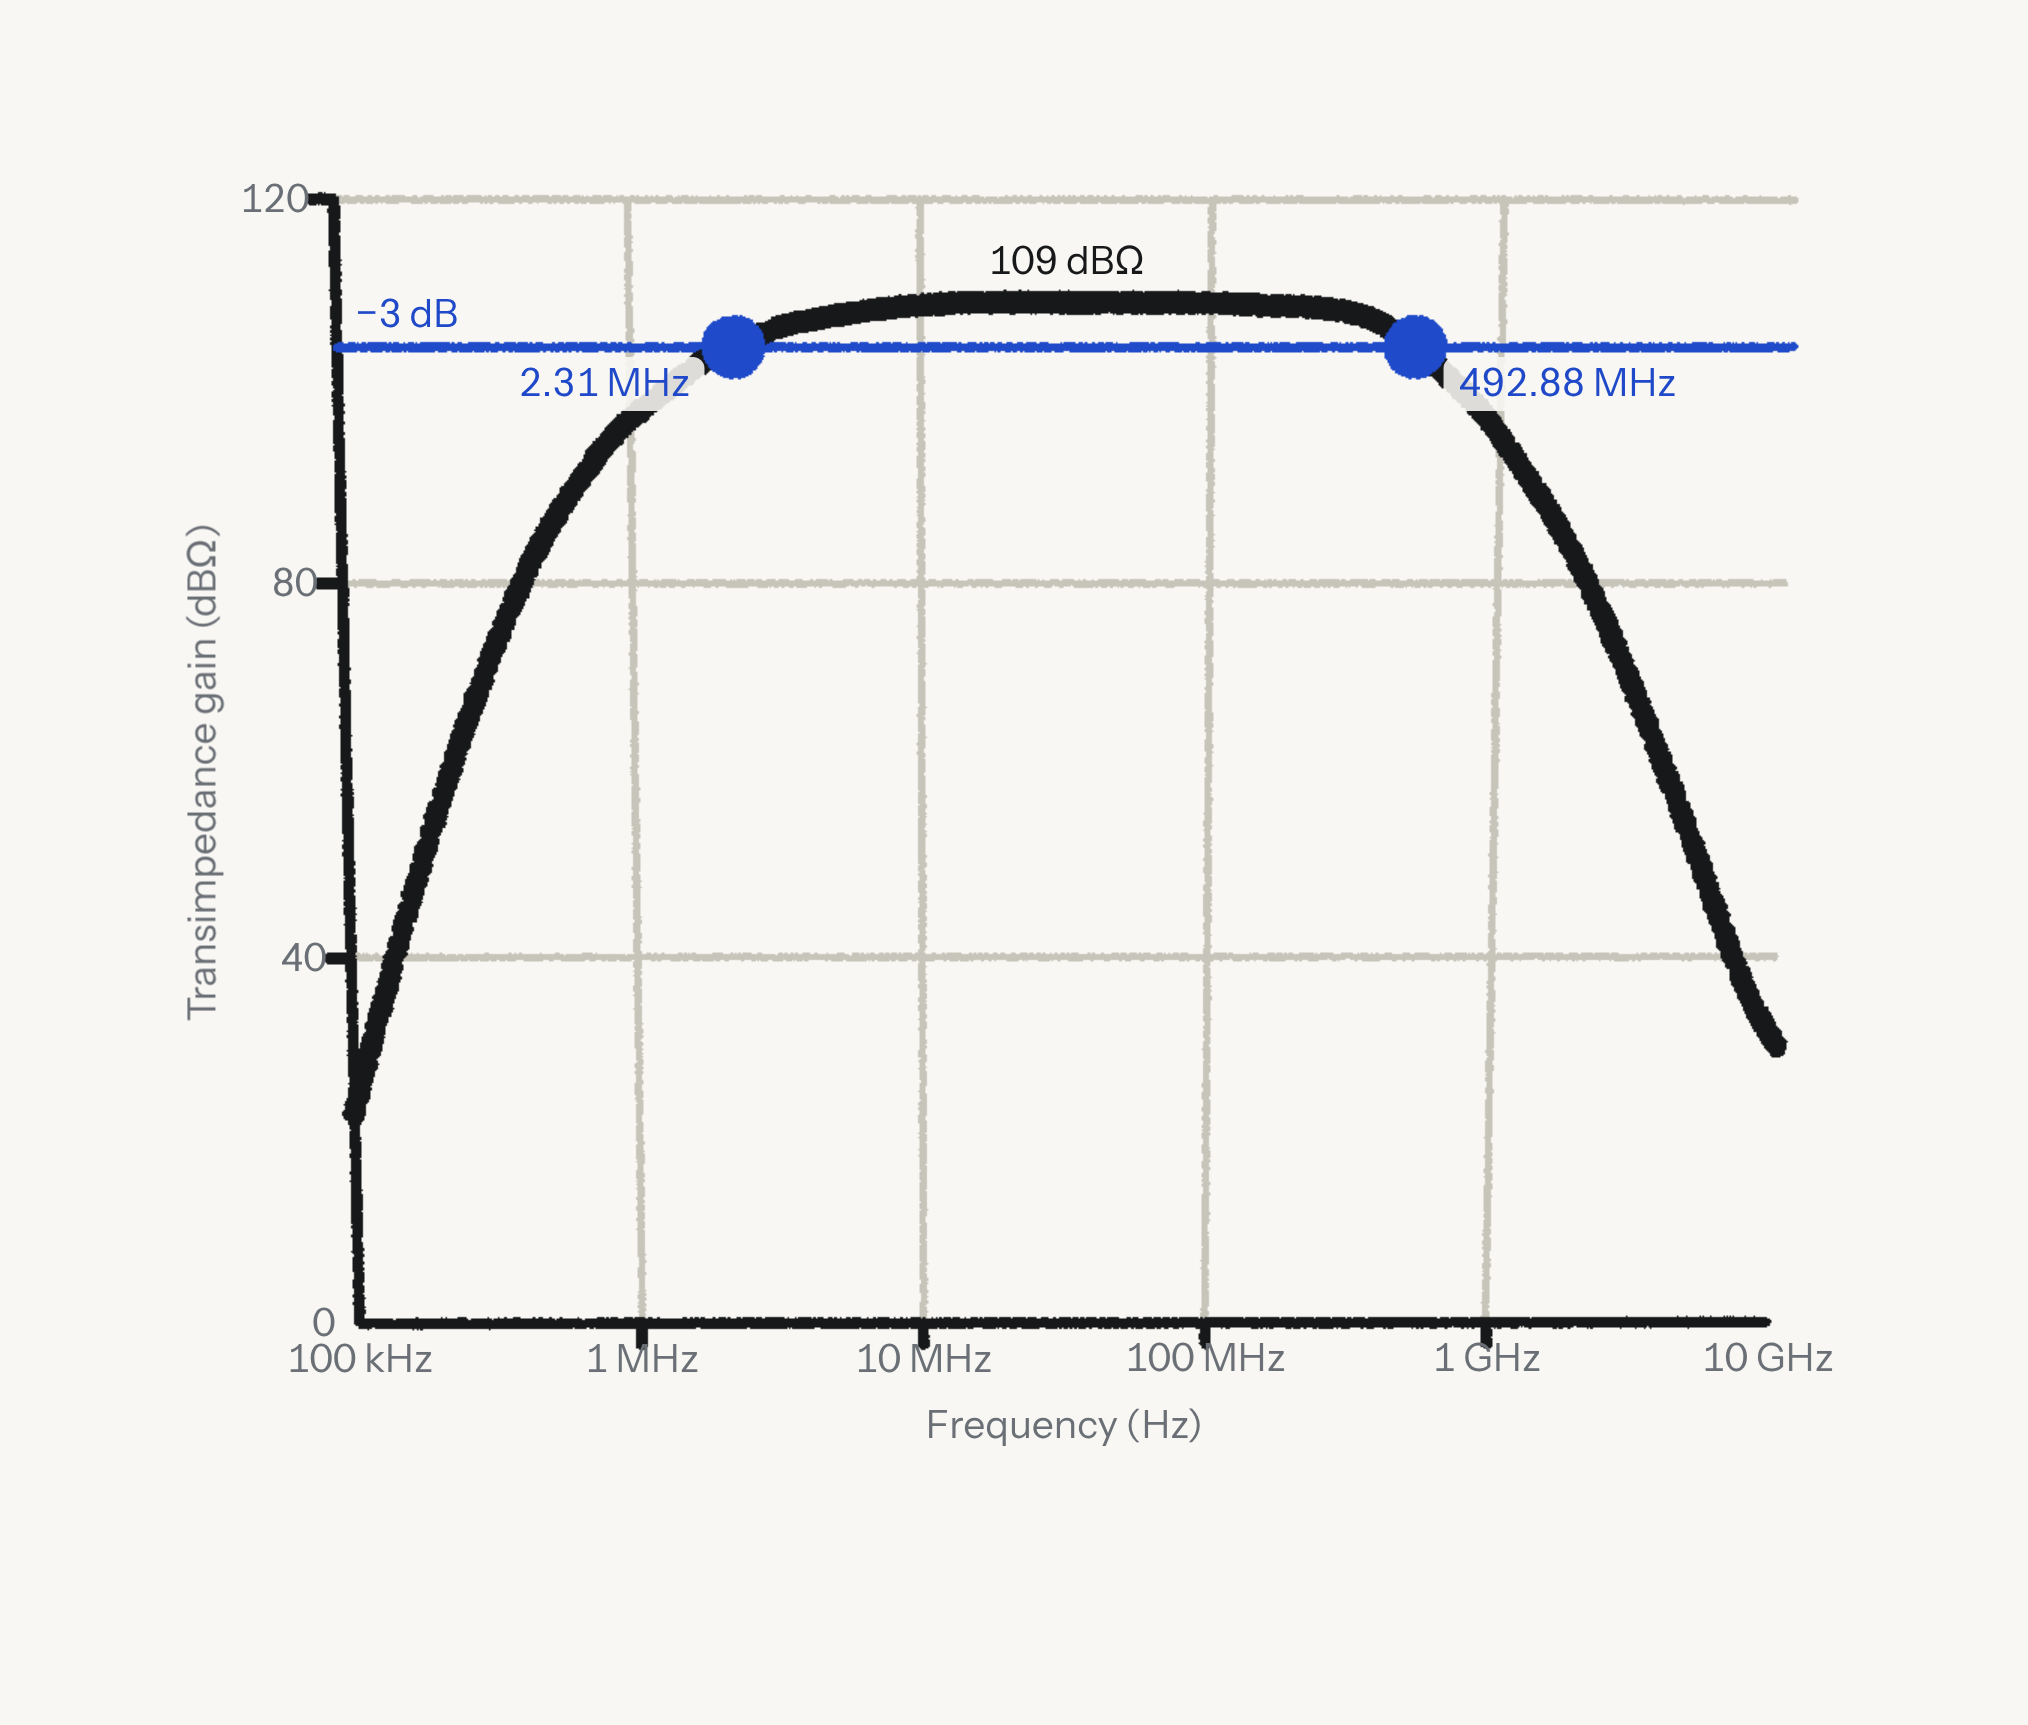
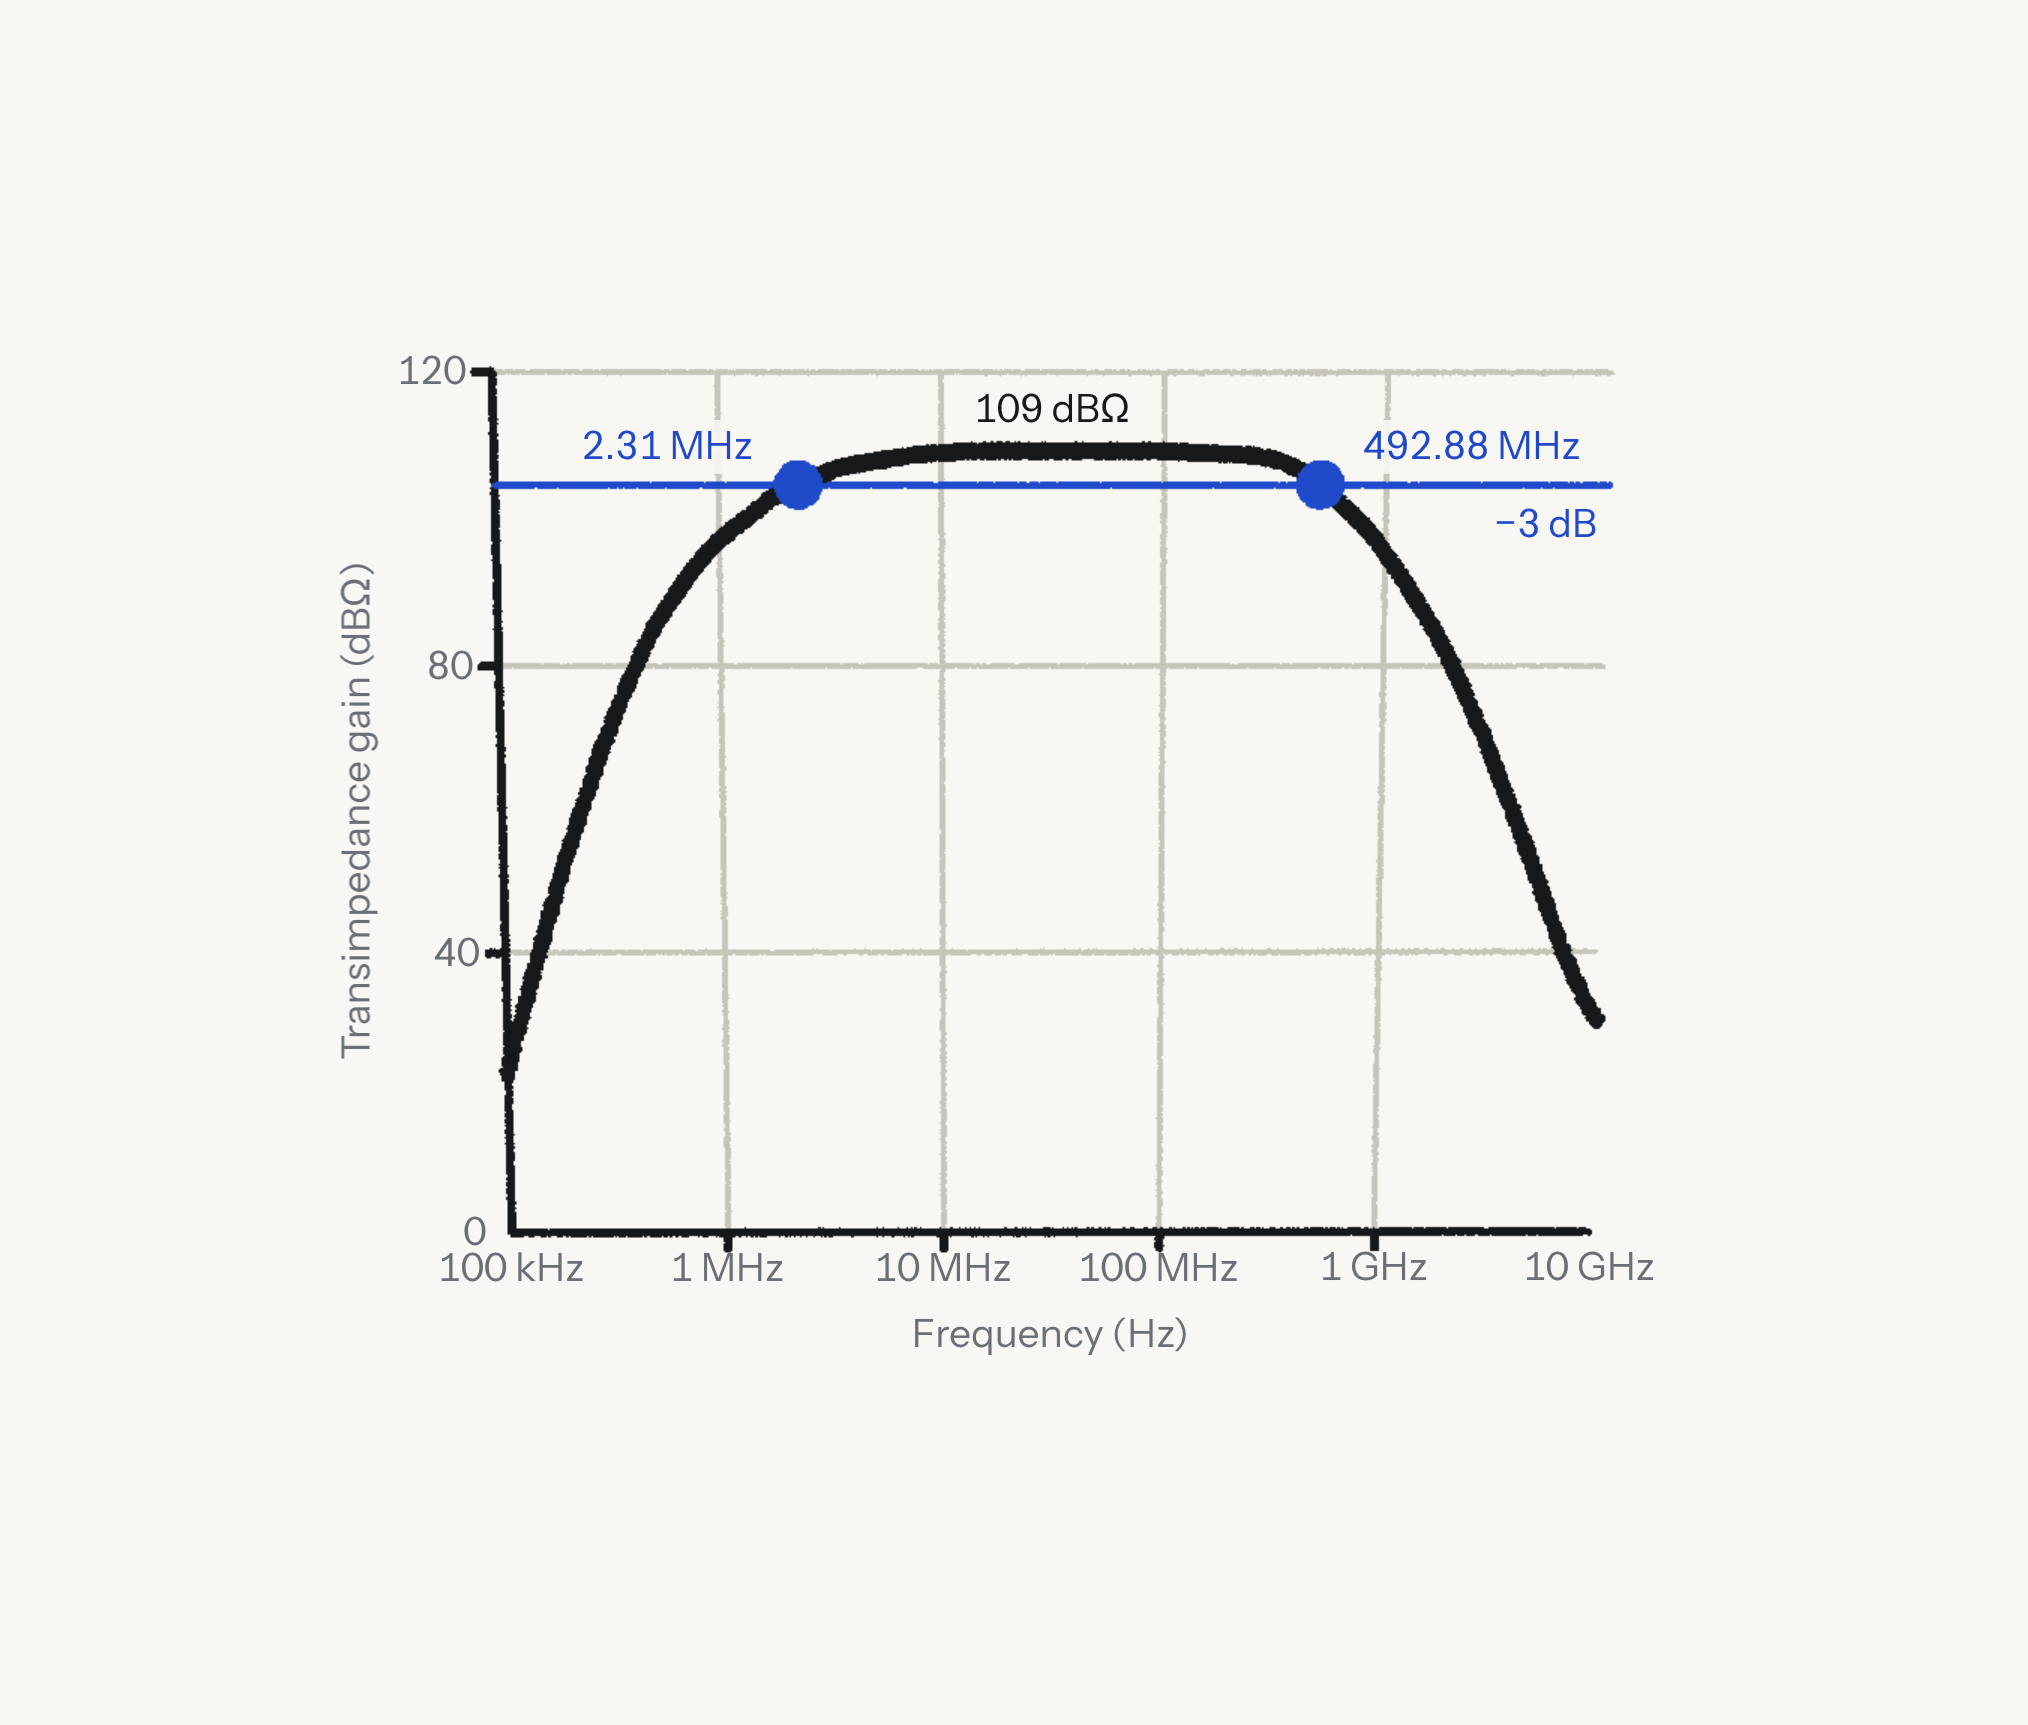
Cloud geometry: lattice ink edge clear of bonds, labels clear of the drawing, hero shapes fit portrait canvases
The full-height ink prism edge ran inside the pale Zn-O bond and showed through as a dotted line; it now starts above the corner O and bonds get more points. Bode corner chips moved off the gain curve, -3 dB sits at the free right end of the blue line, Zn and a 3.252 label moved off their neighbours, and the hero fit aspect is 0.78 so shapes fill 525x648 canvases. Static figures re-captured.

Claude-Session: https://claude.ai/code/session_018LMzagV9NcEfjj8oFWPqm4

Changed region(s): [[0.1243, 0.0922, 0.9009, 0.8296], [0.0932, 0.3072, 0.1243, 0.5838]]

diff --git a/assets/js/cloud.js b/assets/js/cloud.js
@@ -107,7 +107,7 @@
   // Wurtzite ZnO, ball and stick: the hexagonal unit cell. A prism one lattice constant a on each
   // edge and c tall, Zn at the corners, the face centres and three sites inside, each O a distance
   // u c above its Zn, bonds to the four neighbours, and dimension marks for a and c.
-  var CAM_LATTICE = [0.55, 0.5, 10.8];
+  var CAM_LATTICE = [0.55, 0.5, 10.8, 0.78];
   function shapeLattice() {
     var SC = 0.45, RZN = 0.46 * SC, RO = 0.34 * SC, RB = 0.09 * SC, YC = 0.2;  // scene units per Å, atom and bond radii, centre height
     var V = viewDir(CAM_LATTICE), az = CAM_LATTICE[0];
@@ -129,7 +129,7 @@
     P.forEach(function (p) { parts.push({ w: p[3] ? 0.7 : 1, emit: ball(p, p[3] ? RO : RZN, p[3] ? GRAY : SLATE, V, 1.7 * COV) }); });   // Zn dark, O gray, as in the first version
     P.forEach(function (p) {
       if (p[3]) return;
-      P.forEach(function (q) { if (!q[3]) return; var d = Math.hypot(q[0] - p[0], q[1] - p[1], q[2] - p[2]); if (d < 2.1 * SC) parts.push({ w: 0.3, emit: rod(p, q, RB, LIGHT, COV, RZN / d, 1 - RO / d) }); });
+      P.forEach(function (q) { if (!q[3]) return; var d = Math.hypot(q[0] - p[0], q[1] - p[1], q[2] - p[2]); if (d < 2.1 * SC) parts.push({ w: 0.5, emit: rod(p, q, RB, LIGHT, COV, RZN / d, 1 - RO / d) }); });
     });
     // Prism edges: thin ink lines through the corner atoms.
     var R = 0.01;
@@ -137,7 +137,7 @@
       var d = corners[(n + 1) % 6], a = [c[0] * SC, 0, c[1] * SC], b = [d[0] * SC, 0, d[1] * SC];
       parts.push({ w: 0.3, emit: rod([a[0], y0, a[2]], [b[0], y0, b[2]], R, INK, 0.9 * COV) });
       parts.push({ w: 0.3, emit: rod([a[0], y1, a[2]], [b[0], y1, b[2]], R, INK, 0.9 * COV) });
-      parts.push({ w: 0.45, emit: rod([a[0], y0, a[2]], [a[0], y1, a[2]], R, INK, 0.9 * COV) });
+      parts.push({ w: 0.3, emit: rod([a[0], y0 + U_WZ * C_LAT * SC + RO, a[2]], [a[0], y1, a[2]], R, INK, 0.9 * COV) });   // the vertical ink edge starts above the corner O; below it the Zn-O bond and the Zn sphere carry the line, as in a solid ball-and-stick drawing
     });
     // Dimension marks: a along the front bottom edge, c beside the right vertical edge.
     var front = function (c) { return c[0] * Math.sin(az) + c[1] * Math.cos(az); }, sx = function (c) { return c[0] * Math.cos(az) - c[1] * Math.sin(az); };
@@ -156,9 +156,9 @@
     var Lc = corners[li], Os = P.filter(function (p) { return p[3]; }), leftO = Os[0]; best = 1e9;
     Os.forEach(function (p) { var v = sx([p[0], p[2]]); if (v < best) { best = v; leftO = p; } });
     var tags = {
-      a: { p: [(pa[0] + pb[0]) / 2, ya, (pa[2] + pb[2]) / 2], dy: 13 },
+      a: { p: [(pa[0] + pb[0]) / 2, ya, (pa[2] + pb[2]) / 2], dy: 22 },
       c: { p: [xc, (y0 + y1) / 2, zc], dx: 10 },
-      zn: { p: [Lc[0] * SC - RZN, y1, Lc[1] * SC], dx: -7 },
+      zn: { p: [Lc[0] * SC - RZN, y1, Lc[1] * SC], dx: -13 },
       o: { p: [leftO[0] - RO, leftO[1], leftO[2]], dx: -7 }
     };
     return build(parts, tags);
@@ -166,7 +166,7 @@
 
   // The AZO film in cross-section: a block of film on its substrate, a blue plane per Al cycle,
   // a thickness bracket on the left and labelled leaders on the right.
-  var CAM_FILM = [0.5, 0.3, 10.5];
+  var CAM_FILM = [0.5, 0.3, 10.5, 0.78];
   function shapeFilm() {
     var W = 3.1, D = 2.0, H = 2.4, SUB = 0.9, X0 = 0.05, y0 = -0.9, zf = D / 2, FS = 1.6 * COV;
     var xl = X0 - W / 2, xr = X0 + W / 2, yt = y0 + H, yb = y0 - SUB, planes = Math.round(CYCLES / (RATIO + 1));
@@ -404,7 +404,7 @@
       f100k: { p: [fx(5), Y0, 0], dy: 12 }, f1m: { p: [fx(6), Y0, 0], dy: 12 }, f10m: { p: [fx(7), Y0, 0], dy: 12 }, f100m: { p: [fx(8), Y0, 0], dy: 12 }, f1g: { p: [fx(9), Y0, 0], dy: 12 }, f10g: { p: [fx(10), Y0, 0], dy: 12 },
       g0: { p: [X0, fy(0), 0], dx: -8 }, g40: { p: [X0, fy(40), 0], dx: -8 }, g80: { p: [X0, fy(80), 0], dx: -8 }, g120: { p: [X0, fy(120), 0], dx: -8 },
       xlabel: { p: [(X0 + X1) / 2, Y0, 0], dy: 34 }, ylabel: { p: [X0, (Y0 + Y1) / 2, 0], dx: -48 },
-      plateau: { p: [fx(7.5), fy(109.3), 0], dy: -14 }, lo: { p: [fx(lo), fy(L3), 0], dx: -10, dy: 12 }, hi: { p: [fx(hi), fy(L3), 0], dx: 10, dy: 12 }, m3: { p: [X0, fy(L3), 0], dx: 6, dy: -11 }
+      plateau: { p: [fx(7.5), fy(109.3), 0], dy: -14 }, lo: { p: [fx(lo), fy(L3), 0], dx: -10, dy: -13 }, hi: { p: [fx(hi), fy(L3), 0], dx: 10, dy: -13 }, m3: { p: [X1, fy(L3), 0], dx: -4, dy: 13 }
     };
     return build(parts, tags);
   }

diff --git a/index.html b/index.html
@@ -237,7 +237,7 @@ cloud: true
                   <span class="cloud-tag cloud-tag--chip cloud-tag--dim" data-key="tiagain" data-at="plateau" data-align="center">109 dBΩ</span>
                   <span class="cloud-tag cloud-tag--chip cloud-tag--blue" data-key="tiagain" data-at="lo" data-align="right">2.31 MHz</span>
                   <span class="cloud-tag cloud-tag--chip cloud-tag--blue" data-key="tiagain" data-at="hi">492.88 MHz</span>
-                  <span class="cloud-tag cloud-tag--blue" data-key="tiagain" data-at="m3">−3 dB</span>
+                  <span class="cloud-tag cloud-tag--blue" data-key="tiagain" data-at="m3" data-align="right">−3 dB</span>
                 </div>
                 <figure class="fig fig--static box-fig" data-for="0">
                   <p class="fig-title"><b>45 nm CMOS TIA.</b> Signal chain.</p>
